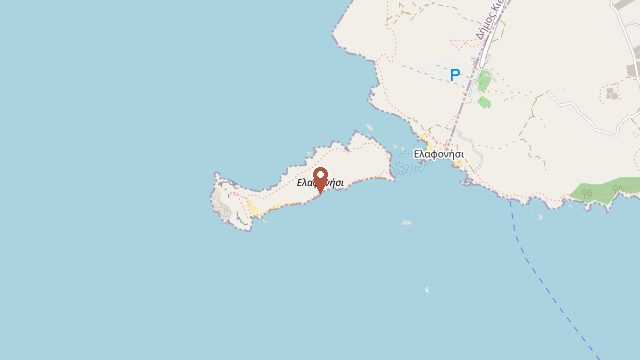
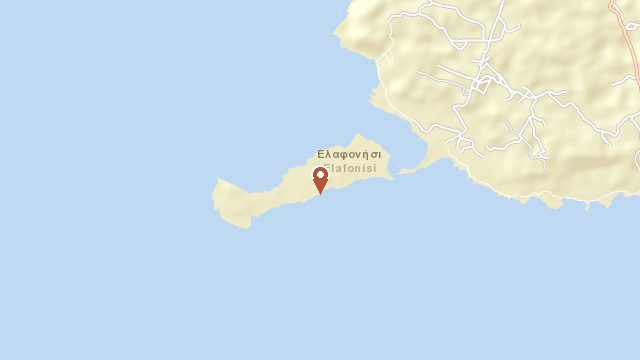
Switch map tiles to Esri World Street Map for bilingual Greek/English labels
The default OSM raster style only renders local-language (Greek)
labels, which was hard to read. Esri's free World Street Map tiles
(no API key required, same OSM road/coastline data underneath) show
bilingual Greek/English place names at every zoom level tested, from
city (Rethymno) down to small villages (Anogeia). No free raster
source with Italian labels exists, but English is a clear improvement
over Greek-only. Applied to both the live Mappa view and the static
per-place map snapshots, so labeling stays consistent between them.
Updated attribution accordingly (Esri, HERE, Garmin + OSM).

diff --git a/index.html b/index.html
@@ -684,7 +684,7 @@ const photoCredits = [
 ];
 document.getElementById('creditsList').innerHTML = photoCredits
   .map(c => `${c.name}: © <a href="${c.url}" target="_blank" rel="noopener">${c.artist}</a>, ${c.license}`)
-  .join('<br>') + '<br>Foto da Wikimedia Commons.<br>Mappe: © contributori OpenStreetMap.';
+  .join('<br>') + '<br>Foto da Wikimedia Commons.<br>Mappe: Esri, HERE, Garmin, © contributori OpenStreetMap.';
 
 /* ---------------- RENDER: ITINERARY ---------------- */
 const daysContainer = document.getElementById('days');
@@ -821,9 +821,9 @@ function dayPlaceSlugs(day) {
 function initMap() {
   if (leafletMap) return;
   leafletMap = L.map('leafletMap', { scrollWheelZoom: false }).setView(CRETE_CENTER, 10);
-  L.tileLayer('https://tile.openstreetmap.org/{z}/{x}/{y}.png', {
+  L.tileLayer('https://server.arcgisonline.com/ArcGIS/rest/services/World_Street_Map/MapServer/tile/{z}/{y}/{x}', {
     maxZoom: 18,
-    attribution: '&copy; <a href="https://www.openstreetmap.org/copyright" target="_blank" rel="noopener">OpenStreetMap</a> contributors'
+    attribution: 'Esri, HERE, Garmin, &copy; <a href="https://www.openstreetmap.org/copyright" target="_blank" rel="noopener">OpenStreetMap</a> contributors'
   }).addTo(leafletMap);
   markersLayer = L.layerGroup().addTo(leafletMap);
 }
